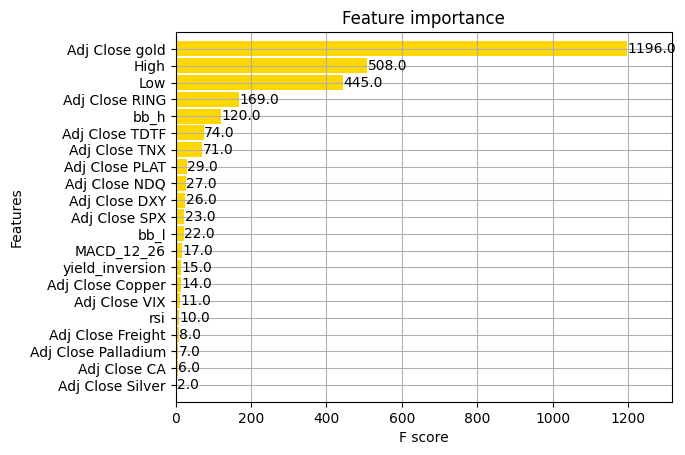
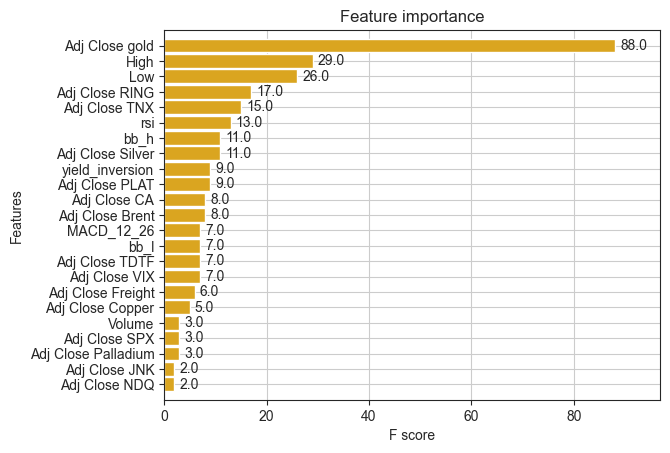
big update

Changed region(s): [[0.0299, 0.0309, 0.9851, 0.989], [0.0, 0.4018, 0.0299, 0.5563]]

diff --git a/app/pages/data.py b/app/pages/data.py
@@ -1,0 +1,207 @@
+
+import streamlit as st
+import joblib
+import os
+import pandas as pd
+import math
+import yfinance as yf
+import numpy as np
+
+from ta.volatility import BollingerBands
+from ta.trend import MACD
+from ta.momentum import RSIIndicator
+
+
+from PIL import Image
+
+period='120d'
+# Confit
+st.set_page_config(page_title='Model Features', page_icon=':bar_chart:', layout='wide')
+
+# To make a dataframe from today's price
+# Gold price (target)
+df_gold = pd.DataFrame(yf.download('GC=F', period = period))
+df_gold.columns= ['Open gold', 'High gold', 'Low gold', 'Close gold', 'Adj Close gold', 'Volume gold']
+#Gold producer ETFs
+df_ring = pd.DataFrame(yf.download('RING', period = period))
+df_ring.columns= ['Open RING', 'High RING', 'Low RING', 'Close RING', 'Adj Close RING', 'Volume RING']
+#Oil Price
+df_brent = pd.DataFrame(yf.download('CL=F', period = period))
+df_brent.columns= ['Open Brent', 'High Brent', 'Low Brent', 'Close Brent', 'Adj Close Brent', 'Volume Brent']
+df_silver = pd.DataFrame(yf.download('SI=F', period = period))
+df_silver.columns= ['Open Silver', 'High Silver', 'Low Silver', 'Close Silver', 'Adj Close Silver', 'Volume Silver']
+df_palladium = pd.DataFrame(yf.download('PA=F', period = period))
+df_palladium.columns= ['Open Palladium', 'High Palladium', 'Low Palladium', 'Close Palladium', 'Adj Close Palladium', 'Volume Palladium']
+# Golden ocean share price as a proxy for dry bulk freight costs
+df_freight = pd.DataFrame(yf.download('GOGL', period = period))
+df_freight.columns= ['Open Freight', 'High Freight', 'Low Freight', 'Close Freight', 'Adj Close Freight', 'Volume Freight']
+# Canadian stock market index
+df_ca_stocks = pd.DataFrame(yf.download('^GSPTSE', period = period))
+df_ca_stocks.columns= ['Open CA', 'High CA', 'Low CA', 'Close CA', 'Adj Close CA', 'Volume CA']
+# 10y treasury yield
+df_tnx = pd.DataFrame(yf.download('^TNX', period = period))
+df_tnx.columns= ['Open TNX', 'High TNX', 'Low TNX', 'Close TNX', 'Adj Close TNX', 'Volume TNX']
+plat_data = yf.download('PL=F',period = period)
+plat_data.columns= ["Open PLAT", "High PLAT", "Low PLAT", "Close PLAT", "Adj Close PLAT", "Volume PLAT"]
+copper_data = yf.download('HG=F', period = period)
+copper_data.columns= ["Open Copper", "High Copper", "Low Copper", "Close Copper", "Adj Close Copper", "Volume Copper"]
+#aluminum_data = yf.download('ALI=F', period = period)
+#aluminum_data.columns= ["Open ALI", "High ALI", "Low ALI", "Close ALI", "Adj Close ALI", "Volume ALI"]
+spx_data = yf.download('^GSPC', period = period)
+spx_data.columns= ["Open SPX", "High SPX", "Low SPX", "Close SPX", "Adj Close SPX", "Volume SPX"]
+nasdaq_data = yf.download('^IXIC', period = period)
+nasdaq_data.columns= ["Open NDQ", "High NDQ", "Low NDQ", "Close NDQ", "Adj Close NDQ", "Volume NDQ"]
+#btc_data = yf.download('BTC-USD', period = period)
+#btc_data.columns= ["Open BTC", "High BTC", "Low BTC", "Close BTC", "Adj Close BTC", "Volume BTC"]
+df_vix = yf.download('^VIX', period = period)
+df_vix.columns= ["Open VIX", "High VIX", "Low VIX", "Close VIX", "Adj Close VIX", "Volume VIX"]
+df_eurusd = yf.download('EURUSD=X', period = period)
+df_eurusd.columns= ["Open EUR/USD", "High EUR/USD", "Low EUR/USD", "Close EUR/USD", "Adj Close EUR/USD", "Volume EUR/USD"]
+df_usdjpy = yf.download('JPY=X', period = period)
+df_usdjpy.columns= ["Open USD/JPY", "High USD/JPY", "Low USD/JPY", "Close USD/JPY", "Adj Close USD/JPY", "Volume USD/JPY"]
+df_usdchf = yf.download('CHF=X', period = period)
+df_usdchf.columns= ["Open USD/CHF", "High USD/CHF", "Low USD/CHF", "Close USD/CHF", "Adj Close USD/CHF", "Volume USD/CHF"]
+
+
+# convert date column to datetime
+df_gold.index = pd.to_datetime(df_gold.index, format = '%Y-%m-%d')
+df_ring.index = pd.to_datetime(df_ring.index, format = '%Y-%m-%d')
+df_silver.index = pd.to_datetime(df_silver.index, format = '%Y-%m-%d')
+df_palladium.index = pd.to_datetime(df_palladium.index, format = '%Y-%m-%d')
+df_freight.index = pd.to_datetime(df_freight.index, format = '%Y-%m-%d')
+df_ca_stocks.index = pd.to_datetime(df_ca_stocks.index, format = '%Y-%m-%d')
+df_tnx.index = pd.to_datetime(df_tnx.index, format = '%Y-%m-%d')
+df_vix.index = pd.to_datetime(df_vix.index, format = '%Y-%m-%d')
+df_eurusd.index = pd.to_datetime(df_eurusd.index, format = '%Y-%m-%d')
+df_usdjpy.index = pd.to_datetime(df_usdjpy.index, format = '%Y-%m-%d')
+df_usdchf .index = pd.to_datetime(df_usdchf .index, format = '%Y-%m-%d')
+plat_data.index = pd.to_datetime(plat_data.index, format = '%Y-%m-%d')
+copper_data.index = pd.to_datetime(copper_data.index, format = '%Y-%m-%d')
+#aluminum_data.index = pd.to_datetime(aluminum_data.index, format = '%Y-%m-%d')
+spx_data.index = pd.to_datetime(spx_data.index, format = '%Y-%m-%d')
+nasdaq_data.index = pd.to_datetime(nasdaq_data.index, format = '%Y-%m-%d')
+#btc_data.index = pd.to_datetime(btc_data.index, format = '%Y-%m-%d')
+
+# List of dataframes
+dataframes = [df_gold,
+df_ring,
+df_brent,
+df_silver,
+df_palladium,
+df_freight,
+df_ca_stocks,
+df_tnx,
+df_vix,
+plat_data,
+copper_data,
+spx_data,
+nasdaq_data,
+df_eurusd,
+df_usdjpy,
+df_usdchf]
+
+# Concatenate dfs using a for loop
+for i in range(len(dataframes)):
+    if i == 0:
+        merged_df = dataframes[i]
+    else:
+        merged_df = pd.merge(merged_df, dataframes[i], left_index=True, right_index=True, how= 'outer')
+
+merged_df = pd.DataFrame(merged_df)
+df = pd.DataFrame(merged_df)
+
+# drop any rows where all values are null
+#df = merged_df.dropna(how='any')
+
+# create new column with day of week
+df['day_of_week'] = df.index.dayofweek
+
+# filter out rows corresponding to Saturday and Sunday
+df = df[(df['day_of_week'] != 5) & (df['day_of_week'] != 6)]
+
+# drop day_of_week column
+df = df.drop(columns=['day_of_week'])
+
+#df = df.drop(['Adj Close BTC', 'Adj Close ALI'], axis=1)
+#df = df.drop(['Adj Close RING'], axis=1)
+
+
+df = df.filter(like='Adj Close')
+
+#st.write(df)
+
+#sam notebook
+data_gold = yf.download("GC=F", period = period)
+data_gold_extra = yf.download("GC=F", period = period)
+
+#pull in DXY data
+data_dxy = yf.download("DX-Y.NYB", period = period)
+#pull in Junk bond data
+data_jnk = yf.download("JNK", period = period)
+#pull in 5 year tips bond data ETF
+data_TDTF = yf.download("TDTF", period = period)
+#pull in Hang Seng Index
+data_HSI = yf.download("^HSI", period = period)
+#pull in 13 weeks t-bill yield
+data_IRX = yf.download("^IRX", period = period)
+#pull in 10 year yield
+data_TNX = yf.download("^TNX", period = period)
+#take just the close price of DXY
+data_dxy_close = data_dxy['Adj Close']
+df_new_feat = pd.merge(df, data_dxy_close, left_index=True, right_index=True, how= 'outer')
+df_new_feat = df_new_feat.rename(columns={'Adj Close': 'Adj Close DXY'})
+#take just the close price of JNK
+data_jnk_close = data_jnk['Adj Close']
+df_new_feat = pd.merge(df_new_feat, data_jnk_close, left_index=True, right_index=True, how= 'outer')
+df_new_feat = df_new_feat.rename(columns={'Adj Close': 'Adj Close JNK'})
+#take just the close price of TDTF
+data_TDTF = data_TDTF['Adj Close']
+df_new_feat = pd.merge(df_new_feat, data_TDTF, left_index=True, right_index=True, how= 'outer')
+df_new_feat = df_new_feat.rename(columns={'Adj Close': 'Adj Close TDTF'})
+#take just the close price of HSI
+data_HSI = data_HSI['Adj Close']
+df_new_feat = pd.merge(df_new_feat, data_HSI, left_index=True, right_index=True, how= 'outer')
+df_new_feat = df_new_feat.rename(columns={'Adj Close': 'Adj Close HSI'})
+#take just the close price of IRX
+data_IRX = data_IRX['Adj Close']
+df_new_feat = pd.merge(df_new_feat, data_IRX, left_index=True, right_index=True, how= 'outer')
+df_new_feat = df_new_feat.rename(columns={'Adj Close': 'Adj Close IRX'})
+# create a yield curve inversion
+yield_inversion = data_TNX['Adj Close'] - data_IRX
+df_new_feat = pd.merge(df_new_feat, yield_inversion, left_index=True, right_index=True, how= 'outer')
+df_new_feat = df_new_feat.rename(columns={'Adj Close': 'yield_inversion'})
+
+#adding other gold features - volume, low etc
+data_gold_low = data_gold['Low']
+data_gold_high = data_gold['High']
+data_gold_volume = data_gold['Volume']
+
+df_new_feat = pd.merge(df_new_feat, data_gold_low, left_index=True, right_index=True, how= 'outer')
+df_new_feat = pd.merge(df_new_feat, data_gold_high, left_index=True, right_index=True, how= 'outer')
+df_new_feat = pd.merge(df_new_feat, data_gold_volume, left_index=True, right_index=True, how= 'outer')
+
+# Bollinger Bands
+indicator_bb = BollingerBands(data_gold_extra['Adj Close'])
+bb = data_gold_extra
+bb['bb_h'] = indicator_bb.bollinger_hband()
+bb['bb_l'] = indicator_bb.bollinger_lband()
+bb = bb[['Close','bb_h','bb_l']]
+bb_h = bb['bb_h']
+bb_l = bb['bb_l']
+df_new_feat = pd.merge(df_new_feat, bb_h, left_index=True, right_index=True, how= 'outer')
+df_new_feat = pd.merge(df_new_feat, bb_l, left_index=True, right_index=True, how= 'outer')
+
+# Moving Average Convergence Divergence
+macd = MACD(data_gold_extra['Adj Close']).macd()
+df_new_feat = pd.merge(df_new_feat, macd, left_index=True, right_index=True, how= 'outer')
+
+# Resistence Strength Indicator
+rsi = RSIIndicator(data_gold_extra['Adj Close']).rsi()
+df_new_feat = pd.merge(df_new_feat, rsi, left_index=True, right_index=True, how= 'outer')
+
+df = df_new_feat.dropna(how='any')
+
+df = df.drop(['Adj Close IRX', 'Adj Close EUR/USD','Adj Close USD/JPY','Adj Close USD/CHF'], axis=1)
+
+
+st.write(df)

diff --git a/app/pages/model_info.py b/app/pages/model_info.py
@@ -26,13 +26,12 @@ new_banner = banner.resize((2000, 150))
 st.image(new_banner, caption='')
 st.info('**Model Statistics**', icon="🧠")
 
-model_name= st.sidebar.selectbox('Select a model', ('XGBoost','Decision Tree Regressor', 'Lasso','Sarima'))
+model_name= st.sidebar.selectbox('Select a model', ('XGBoost','RandomForest', 'Lasso','Sarima'))
 
 if model_name=='XGBoost':
     features_path=os.path.join(root_path,'raw_data','XGBoostFeatures.png')
     pnl_path=os.path.join(root_path,'raw_data','XGBoostPnL.png')
     test_path=os.path.join(root_path,'raw_data','XGBoostTest.png')
-
     pnl= Image.open(pnl_path)
     pnl = pnl.resize((600, 400))
     test= Image.open(test_path)
@@ -40,7 +39,22 @@ if model_name=='XGBoost':
     features= Image.open(features_path)
 
     col1, col2 = st.columns(2)
+    with col1:
+        st.image(test, caption='')
+    with col2:
+        st.image(pnl, caption='')
 
+    #st.image(features, caption='')
+
+elif model_name=='Lasso':
+    pnl_path=os.path.join(root_path,'raw_data','LassoPnL.png')
+    test_path=os.path.join(root_path,'raw_data','LassoTest.png')
+    pnl= Image.open(pnl_path)
+    pnl = pnl.resize((600, 400))
+    test= Image.open(test_path)
+    test = test.resize((600, 400))
+
+    col1, col2 = st.columns(2)
     with col1:
         st.image(test, caption='')
     with col2:
@@ -52,9 +66,20 @@ elif model_name=='Sarima':
     results = model.get_forecast(1, alpha=0.05)
     gold_pred = (round(np.exp(results.predicted_mean),1)).iloc[0]
     confidence_int = results.conf_int()
-elif model_name=='Decision Tree Regressor':
-    model = joblib.load(os.path.join(model_path,'DecisionTreeRegressor.pkl'))
-    gold_pred=model.predict(inputs)[0]
-    gold_pred=round(gold_pred,1)
+
+elif model_name=='RandomForest':
+    pnl_path=os.path.join(root_path,'raw_data','RandomForestPnL.png')
+    test_path=os.path.join(root_path,'raw_data','RandomForestTest.png')
+    pnl= Image.open(pnl_path)
+    pnl = pnl.resize((600, 400))
+    test= Image.open(test_path)
+    test = test.resize((600, 400))
+
+    col1, col2 = st.columns(2)
+    with col1:
+        st.image(test, caption='')
+    with col2:
+        st.image(pnl, caption='')
+
 
 st.info("Past performance is not necessarily indicative of future results.")

diff --git a/app/app.py b/app/app.py
@@ -174,17 +174,24 @@ else:
 st.write("**Features**")
 #st.write(df.round(2))
 
-test=df.round(1)
-st.write(test)
+test=df.round(2)
+test.columns = test.columns.str.replace('Adj Close','')
+test1=test.iloc[:, : 12]
+test2=test.iloc[:,12 :]
+st.write(test1)
+#st.write(test2)
 
 gold_price=round(df['Adj Close gold'][0],2)
 
 pct_change=round((gold_pred/gold_price-1)*100,2)
 
 
-col1, col2 = st.columns(2)
+col1, col2, col3 = st.columns(3)
 col1.metric("Gold Price", gold_price)
 col2.metric("Gold Prediction", gold_pred, f'{pct_change}%')
+with col3:
+        st.image("https://media.giphy.com/media/3ohzdIuqJoo8QdKlnW/giphy.gif",width=300)
+
 
 st.text(model)
 
